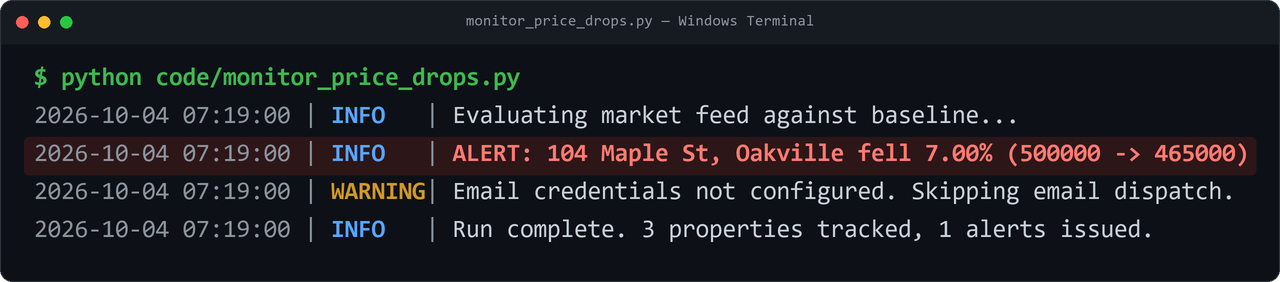
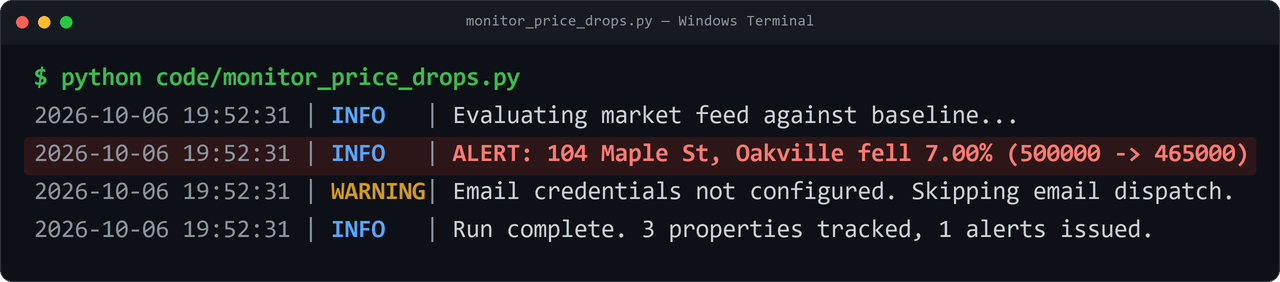
Add ASIN, Kindle Unlimited badge and real screenshots
- README: replace YOUR_ASIN_HERE with B0HM1X2L9G, add Author link
- README: enable the Kindle Unlimited badge (book is enrolled in KDP Select)
- README: Chapter 5 caption now describes the fair-housing screen
- 02-cma-report.png: real render of the generated .docx (pandoc + headless Chrome)
- 03/04: refreshed from genuine script output
- All four screenshots are now real; no placeholders remain

diff --git a/README.md b/README.md
@@ -2,16 +2,12 @@
 
 > **A Practical Guide to Scraping Market Data, Automating Property Reports, and Building Micro-Workflows**
 
-<!-- Replace YOUR_ASIN_HERE with the real ASIN once the book is live. -->
-
-[![Available on Amazon Kindle](https://img.shields.io/badge/Amazon_Kindle-Available_Now-orange?style=for-the-badge&logo=amazon)](https://www.amazon.com/dp/YOUR_ASIN_HERE)
+[![Available on Amazon Kindle](https://img.shields.io/badge/Amazon_Kindle-Available_Now-orange?style=for-the-badge&logo=amazon)](https://www.amazon.com/dp/B0HM1X2L9G)
+[![Kindle Unlimited](https://img.shields.io/badge/Kindle_Unlimited-Read_for_Free-green?style=for-the-badge)](https://www.amazon.com/dp/B0HM1X2L9G)
 [![Python 3.12](https://img.shields.io/badge/Python-3.12+-blue?style=for-the-badge&logo=python)](https://www.python.org/)
 
-<!-- KDP Select only: uncomment the badge below ONLY if the book is enrolled in
-     Kindle Unlimited. Claiming KU when you are not enrolled is a misleading
-     claim and can draw a complaint.
-[![Kindle Unlimited](https://img.shields.io/badge/Kindle_Unlimited-Read_for_Free-green?style=for-the-badge)](https://www.amazon.com/dp/YOUR_ASIN_HERE)
--->
+<!-- If the book ever leaves KDP Select, delete the Kindle Unlimited badge above.
+     Claiming KU when you are not enrolled is a misleading claim. -->
 
 This is the official code repository for the book **Python Automation for Real Estate**.
 
@@ -31,9 +27,10 @@ proprietary API.
 </td>
 <td valign="top">
 
-**Python Automation for Real Estate** — available on Amazon Kindle.
+**Python Automation for Real Estate** — available on Amazon Kindle, and free to
+read for Kindle Unlimited members.
 
-👉 **https://www.amazon.com/dp/YOUR_ASIN_HERE**
+👉 **https://www.amazon.com/dp/B0HM1X2L9G**
 
 The book is a plug-and-play technical cookbook: 6 chapters, 7 runnable scripts,
 and a five-stage format for every chapter (goal → architecture → build → run →
@@ -47,11 +44,8 @@ production notes).
 
 ## 📸 See it in action
 
-<!-- ⚠ NOT PUBLIC-READY YET: 02-cma-report.png and 04-listing-copy.png are still
-     placeholders. Replace both with real captures (same filenames, 1600 x 900 px)
-     and delete this comment before switching the repository to public. -->
-
-Four views of the pipeline, in chapter order. Each one is a single command.
+Four views of the pipeline, in chapter order. Everything below is real output
+from the scripts in this repository — no mock-ups, no staged data.
 
 **Chapter 1 — confirm your environment works** · `python code/verify_setup.py`
 
@@ -65,9 +59,9 @@ Four views of the pipeline, in chapter order. Each one is a single command.
 
 ![Terminal log showing an ALERT line: 104 Maple St, Oakville fell 7.00% (500000 -> 465000)](docs/images/03-price-alert.png)
 
-**Chapter 5 — generate compliant, channel-specific listing copy** · `python code/generate_listing_copy.py`
+**Chapter 5 — screen AI-written copy before it reaches a client** · `python code/generate_listing_copy.py`
 
-![The approved listing-copy bundle, plus a quarantine file holding anything that failed fair-housing screening](docs/images/04-listing-copy.png)
+![A Python session calling screen_fair_housing on a draft description; it returns four matched phrases that would quarantine the copy for human review](docs/images/04-listing-copy.png)
 
 > **Chapter 2** (`scrape_listings.py`) is deliberately not shown. It ships pointed
 > at a placeholder domain, so it produces nothing until you point it at a site you
@@ -275,6 +269,8 @@ often be a teaching moment in the next edition rather than a patch here.
 **James Jiang** writes about practical automation for people who work with
 property data.
 
-- Amazon Author Central: *[link once the book is live]*
+- **The book:** [Python Automation for Real Estate](https://www.amazon.com/dp/B0HM1X2L9G)
+  — free to read for Kindle Unlimited members
+- **More by James Jiang:** [browse on Amazon](https://www.amazon.com/s?i=digital-text&field-author=James+Jiang)
 - Found this useful? A ⭐ on this repository helps other people find it — and
   the book goes into everything the repository deliberately leaves out.
